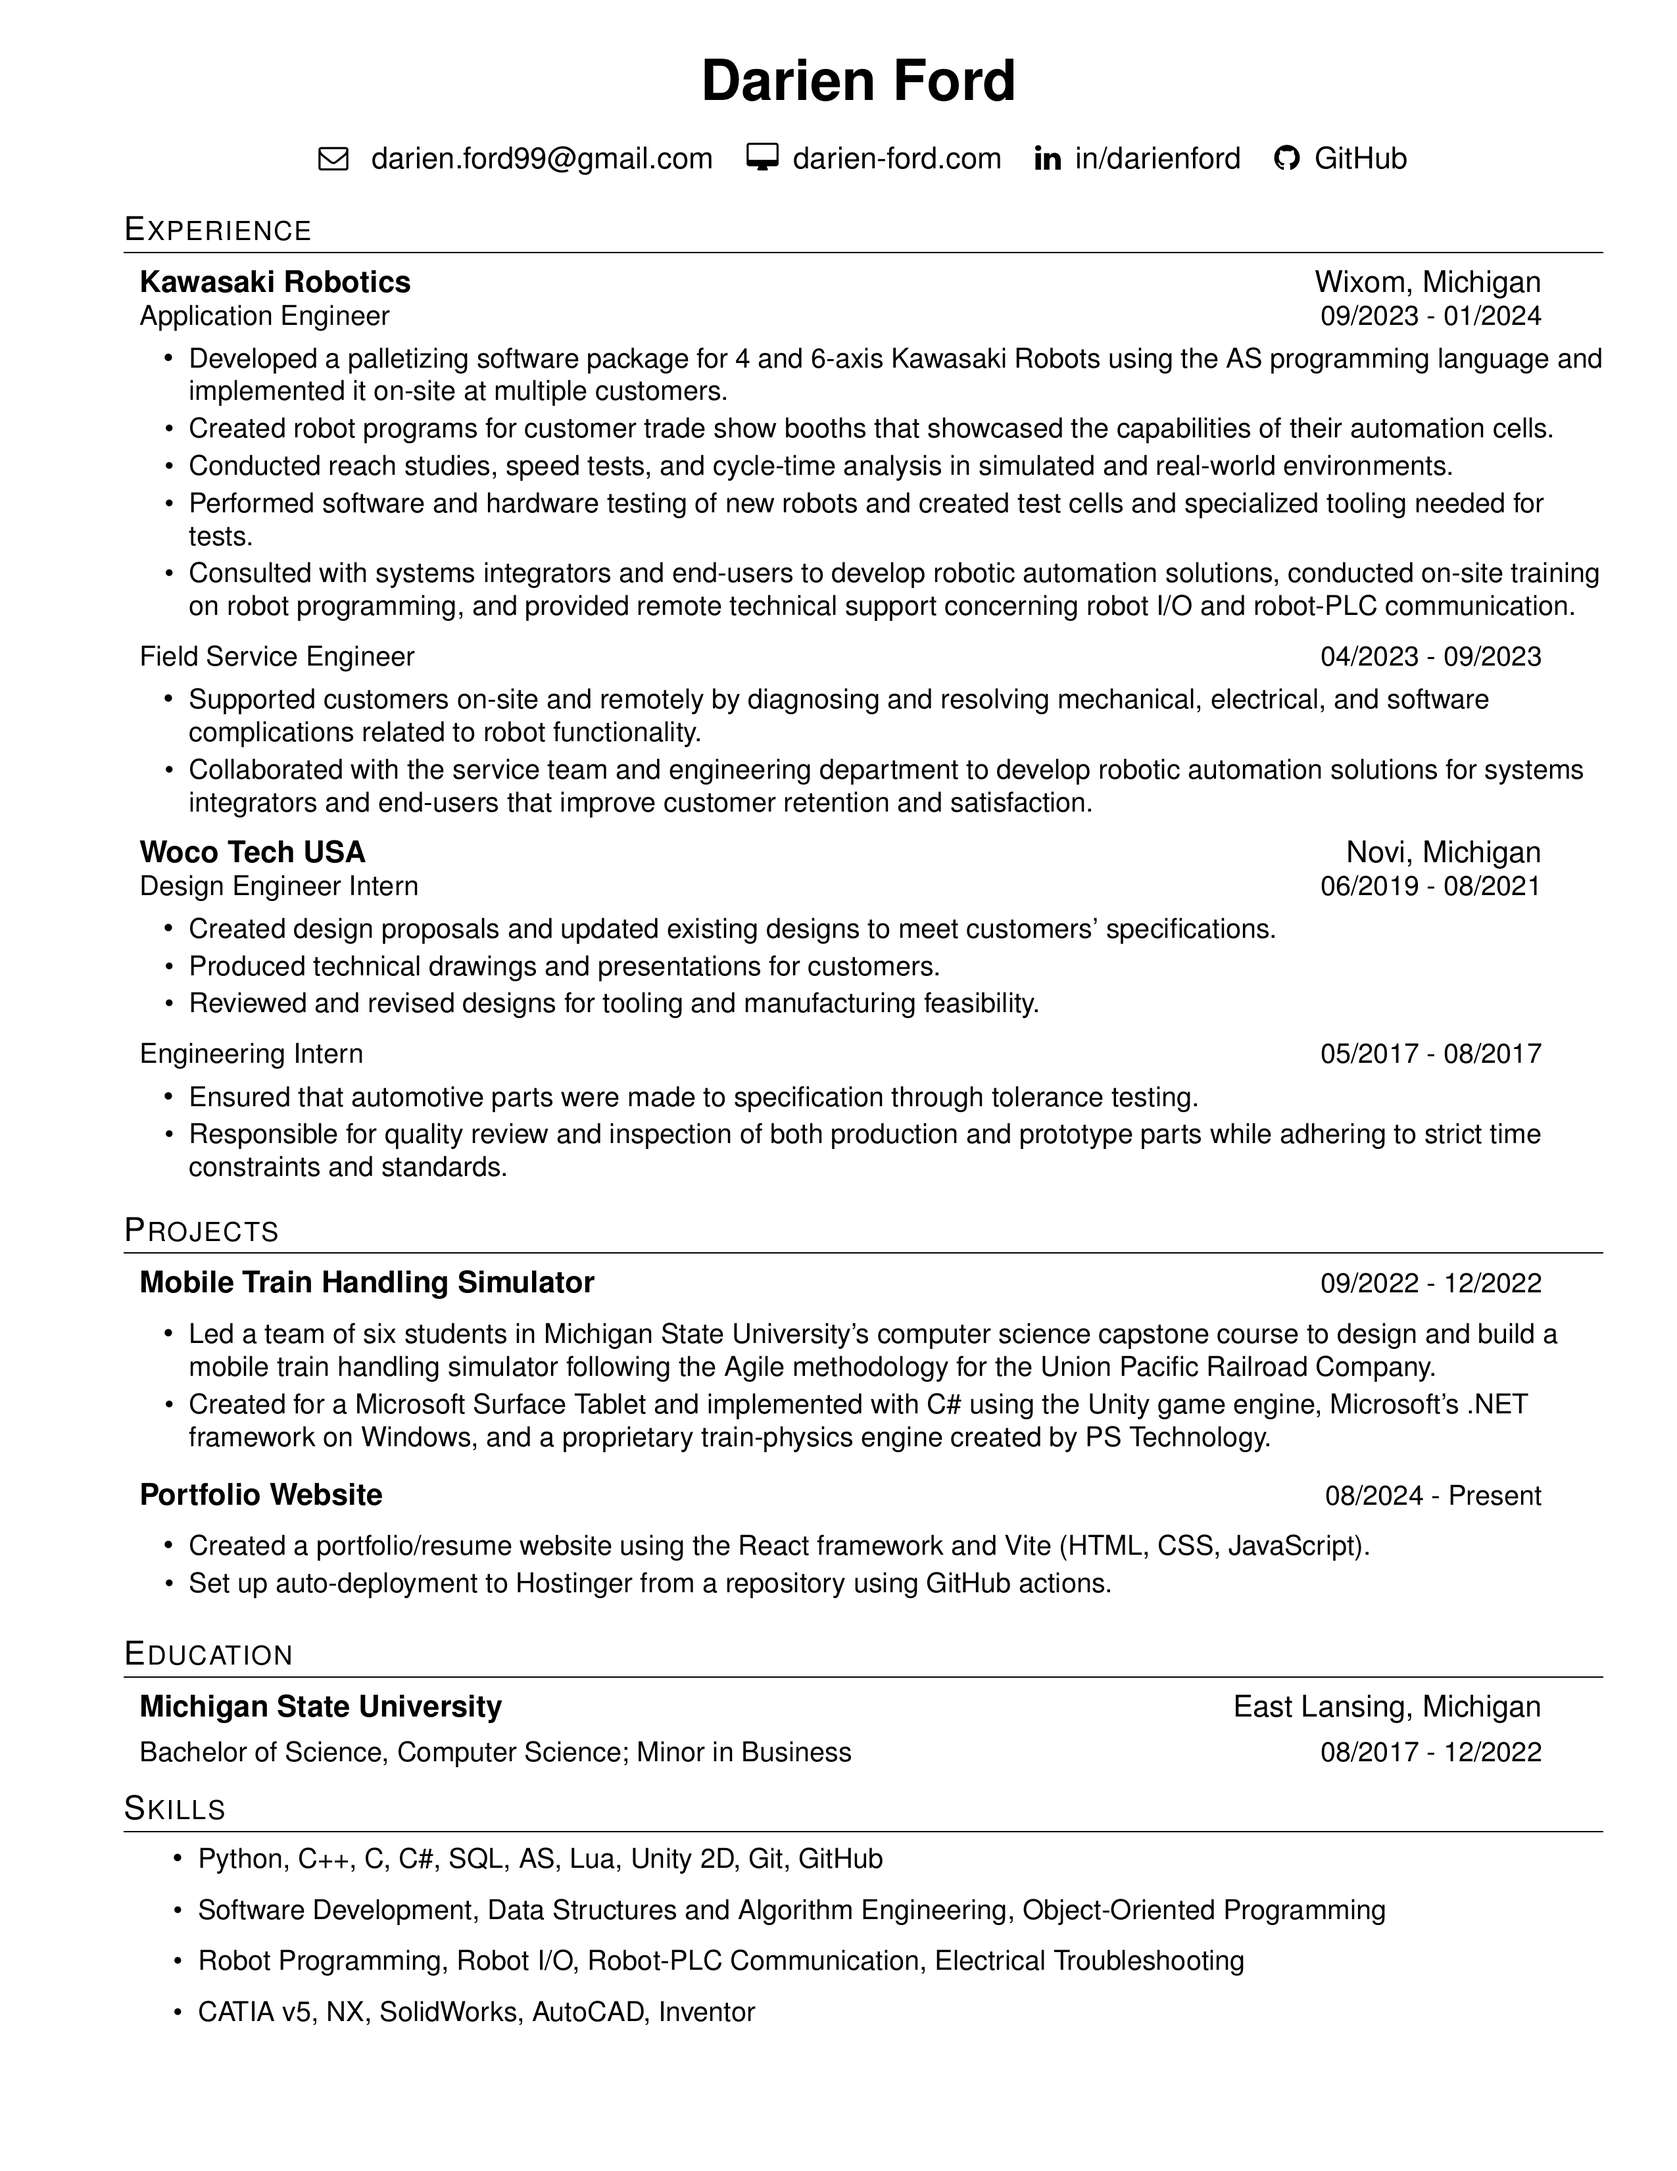
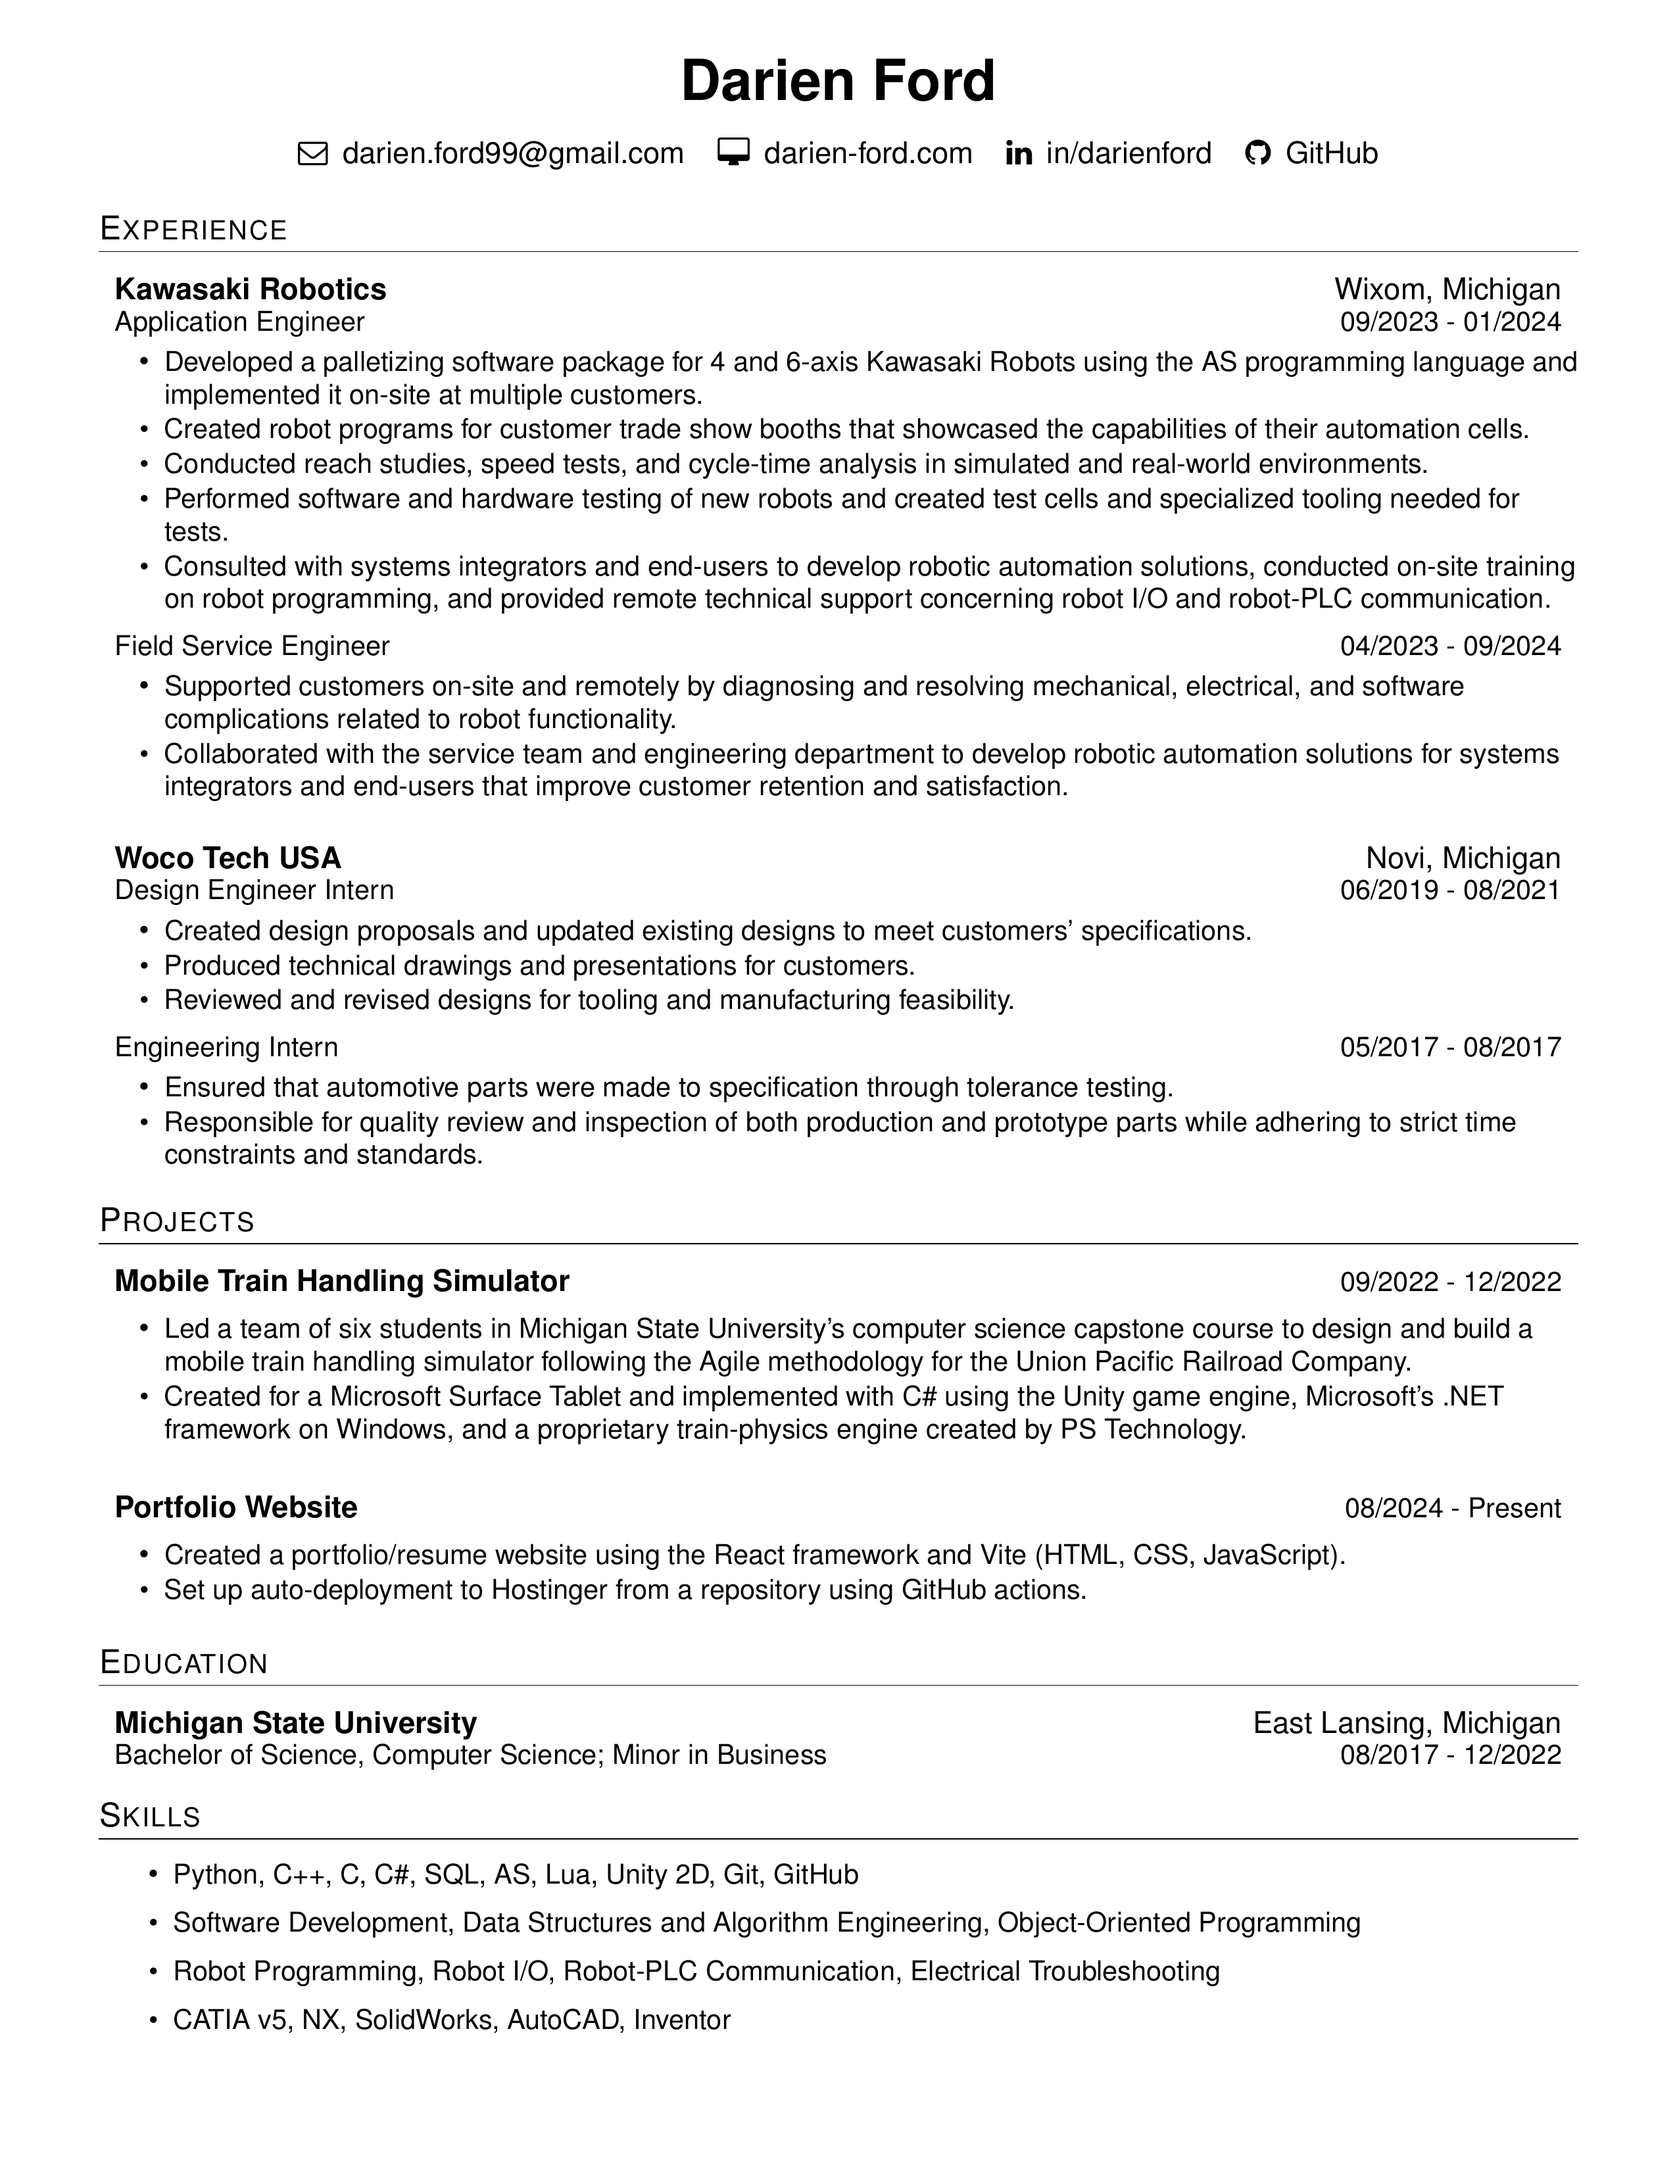
Updated Resume Formatting.

Changed region(s): [[0.062, 0.0936, 0.9604, 0.9361], [0.1859, 0.0312, 0.8365, 0.0936], [0.7435, 0.7801, 0.9294, 0.8113]]

diff --git a/resume/resume.tex b/resume/resume.tex
@@ -9,33 +9,41 @@
 \usepackage{fancyhdr}
 \usepackage{fontawesome}
 \usepackage{helvet}
-
-
 \pagestyle{fancy}
 \fancyhf{} % clear all header and footer fields
 \fancyfoot{}
 \renewcommand{\headrulewidth}{0pt}
 \renewcommand{\footrulewidth}{0pt}
 \renewcommand{\familydefault}{\sfdefault}
-
-% Adjust margins
-\addtolength{\oddsidemargin}{-0.375in}
-\addtolength{\evensidemargin}{-0.375in}
-\addtolength{\textwidth}{1in}
-\addtolength{\topmargin}{-.7in}
-\addtolength{\textheight}{1.0in}
-
 \urlstyle{same}
-
 \raggedbottom
 \raggedright
 
+% Adjust margins
+\addtolength{\oddsidemargin}{-0.5in}
+\addtolength{\evensidemargin}{-0.5in}
+\addtolength{\textwidth}{1in}
+\addtolength{\topmargin}{-.7in}
+\addtolength{\textheight}{1.0in}
+\setlength{\footskip}{4.08003pt}
+
+% Personal Information
+\newcommand{\name}{Darien Ford}
+\newcommand{\email}{darien.ford99@gmail.com}
+\newcommand{\website}{darien-ford.com}
+\newcommand{\linkedin}{in/darienford}
+
+% Personal Links
+\newcommand{\emailLink}{mailto:darien.ford99@gmail.com}
+\newcommand{\websiteLink}{https://www.darien-ford.com}
+\newcommand{\linkedinLink}{https://www.linkedin.com/in/darienford}
+\newcommand{\githubLink}{https://www.github.com/Darien-Ford}
+
 % Sections formatting
 \titleformat{\section}{
-  \vspace{-4pt}\scshape\raggedright\large
-}{}{0em}{}[\color{black}\titlerule \vspace{-5pt}]
+  \vspace{-2pt}\scshape\raggedright\large
+}{}{0em}{}[\color{black}\titlerule \vspace{-2pt}]
 
-%-------------------------
 % Custom commands
 \newcommand{\resumeItem}[1]{
   \item\small{
@@ -45,14 +53,14 @@
 
 \newcommand{\resumeSubHeading}[2]{
   \vspace{-1pt}\item
-    \begin{tabular*}{0.97\textwidth}{l@{\extracolsep{\fill}}r}
+    \begin{tabular*}{\textwidth}{l@{\extracolsep{\fill}}r}
       \textbf{#1} & {#2} \\
     \end{tabular*}\vspace{-5pt}
 }
 
 \newcommand{\resumeTitle}[2]{
   \vspace{-1pt}\item
-    \begin{tabular*}{0.97\textwidth}{l@{\extracolsep{\fill}}r}
+    \begin{tabular*}{\textwidth}{l@{\extracolsep{\fill}}r}
       {\small#1} & {\small #2} \\
     \end{tabular*}\vspace{-5pt}
 }
@@ -69,16 +77,13 @@
 
 % HEADER
 \begin{center}
+     \textbf{\huge{\name}}\bigskip\\
  
-    \textbf{\huge Darien Ford}
-    \bigskip\\
- 
-\begin{tabular}{c c c c c}
-
-    \href{mailto:darien.ford99@gmail.com}{\faEnvelopeO\enspace\ darien.ford99@gmail.com} & \href{https://www.darien-ford.com}{\faDesktop\enspace darien-ford.com} & \href{https://www.linkedin.com/in/darienford/}{\faLinkedin\enspace in/darienford} & \href{https://www.github.com/Darien-Ford}{\faGithub\enspace GitHub}\\
+    \begin{tabular}{c c c c c}
     
-\end{tabular}
-    
+        \href{\emailLink}{\faEnvelopeO\enspace{\email}} & \href{\websiteLink}{\faDesktop\enspace{\website}} & \href{\linkedinLink}{\faLinkedin\enspace{\linkedin}} & \href{\githubLink}{\faGithub\enspace{GitHub}}\\
+        
+    \end{tabular}
 \end{center}
 
 % EXPERIENCE
@@ -96,13 +101,15 @@
                     \resumeItem{Consulted with systems integrators and end-users to develop robotic automation solutions, conducted on-site training on robot programming, and provided remote technical support concerning robot I/O and robot-PLC communication.}
                 \resumeItemListEnd
 
-            \resumeTitle{Field Service Engineer}{04/2023 - 09/2023}
+            \resumeTitle{Field Service Engineer}{04/2023 - 09/2024}
                 \resumeItemListStart
                     \resumeItem{Supported customers on-site and remotely by diagnosing and resolving mechanical, electrical, and software complications related to robot functionality.}
                     \resumeItem{Collaborated with the service team and engineering department to develop robotic automation solutions for systems integrators and end-users that improve customer retention and satisfaction.}
                 \resumeItemListEnd
             \resumeTitleListEnd
-
+            
+            \bigskip
+            
     \resumeSubHeading{Woco Tech USA}{Novi, Michigan}\\
         \resumeTitleListStart
             \resumeTitle{Design Engineer Intern}{06/2019 - 08/2021}
@@ -126,12 +133,12 @@
 \section{Projects}
     \resumeSubHeadingListStart
     
-        \resumeSubHeading{\href{http://www.capstone.cse.msu.edu/2022-08/projects/union-pacific/}{Mobile Train Handling Simulator}}{\small09/2022 - 12/2022}\\
+        \resumeSubHeading{\href{http://www.capstone.cse.msu.edu/2022-08/projects/union-pacific/}{Mobile Train Handling Simulator}}{\small{09/2022 - 12/2022}}\\
             \resumeItemListStart
                 \resumeItem{Led a team of six students in Michigan State University’s computer science capstone course to design and build a mobile train handling simulator following the Agile methodology for the Union Pacific Railroad Company.}
                 \resumeItem{Created for a Microsoft Surface Tablet and implemented with C\# using the Unity game engine, Microsoft's .NET framework on Windows, and a proprietary train-physics engine created by PS Technology.}
             \resumeItemListEnd
-        
+   \bigskip
         \resumeSubHeading{\href{https://github.com/Darien-Ford/Portfolio_Website}{Portfolio Website}}{\small08/2024 - Present}\\
             \resumeItemListStart
                 \resumeItem{Created a portfolio/resume website using the React framework and Vite (HTML, CSS, JavaScript).}
@@ -143,12 +150,11 @@
  % EDUCATION
 \section{Education}
     \resumeSubHeadingListStart
-        \resumeSubHeading{Michigan State University}{East Lansing, Michigan}
+        \resumeSubHeading{Michigan State University}{East Lansing, Michigan}\\
             \resumeTitleListStart
                 \resumeTitle{Bachelor of Science, Computer Science; Minor in Business}{08/2017 - 12/2022}
             \resumeTitleListEnd
-        \resumeSubHeadingListEnd
-
+    \resumeSubHeadingListEnd
   
 % SKILLS
 \section{Skills}
